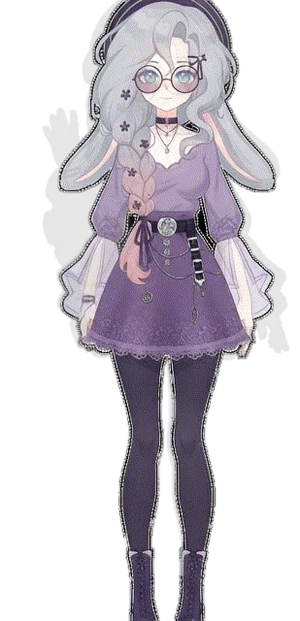
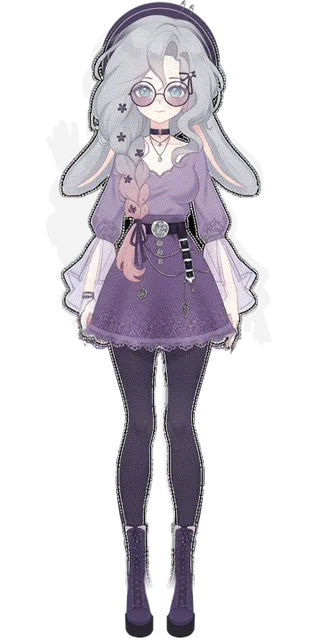
Обновление сайта Timora

diff --git a/assets/js/app.js b/assets/js/app.js
@@ -236,13 +236,13 @@
         el("span", { class: "model__glow", "aria-hidden": "true" }),
         el("img", {
           class: "model__poster", src: MODEL.poster || MODEL.full, alt: tr(MODEL.alt, OWNER.name || ""),
-          width: 300, height: 621, decoding: "async"
+          width: 320, height: 638, decoding: "async"
         }),
         el("span", { class: "model__shadow", "aria-hidden": "true" })
       ]);
       var animImg = el("img", {
         class: "model__anim", alt: "", "aria-hidden": "true",
-        width: 300, height: 621, decoding: "async",
+        width: 320, height: 638, decoding: "async",
         onload: function () { animBox.classList.add("is-ready"); }
       });
       animBox.appendChild(animImg);

diff --git a/assets/css/style.css b/assets/css/style.css
@@ -144,7 +144,7 @@ ul { margin: 0; padding: 0; list-style: none; }
 .model__layer { position: absolute; inset: 0; width: 100%; height: 100%; }
 
 /* вариант с готовой анимацией: кадры уже с прозрачным фоном */
-.model--anim { aspect-ratio: auto; animation: none; max-width: 310px; }
+.model--anim { aspect-ratio: auto; animation: none; max-width: 330px; }
 .model__poster { position: relative; display: block; width: 100%; height: auto; }
 .model__anim {
   position: absolute; inset: 0; width: 100%; height: 100%;
